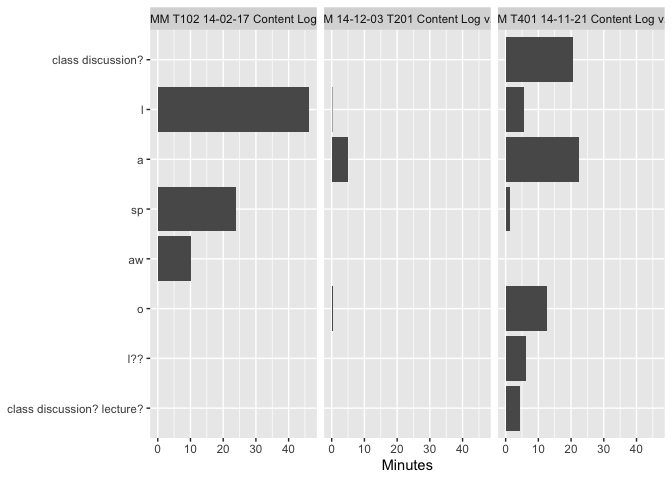
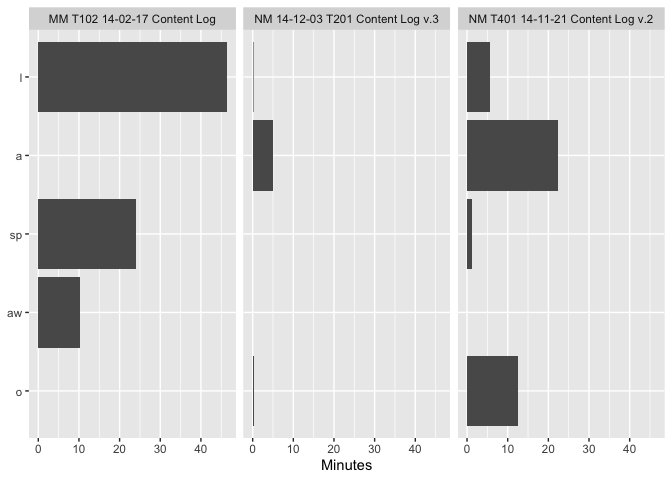
finish cleaning namespace from removing class

diff --git a/README.md b/README.md
@@ -99,6 +99,23 @@ summarize_column(column = "LogClass_AS_ActivityFormat",
 #> 8 l??                                     1  0.0455
 ```
 
+Because `summary_column()` returns a tibble/data.frame, it can be
+computed on:
+
+``` r
+summarize_column(column = "LogClass_AS_ActivityFormat",
+                 directory = "ex-data/datavyu_output_07-06-2020_14-46") %>% 
+  filter(!str_detect(log_class_as_activity_format_code01, "[?]")) # note that names are cleaned upon being processed
+#> # A tibble: 5 x 3
+#>   log_class_as_activity_format_code01     n percent
+#>   <chr>                               <dbl>   <dbl>
+#> 1 l                                       7  0.318 
+#> 2 sp                                      7  0.318 
+#> 3 a                                       2  0.0909
+#> 4 o                                       2  0.0909
+#> 5 aw                                      1  0.0455
+```
+
 We can also explore the frequencies *by file* by changing the `by_file`
 argument to `TRUE`.
 
@@ -151,24 +168,9 @@ summarize_column(column = "LogClass_AS_ActivityFormat",
 #> 8 class discussion? lecture?          00:04:20:950  0.0274
 ```
 
-Note that because the output is a tibble, it can be computed on, e.g.,
-using the `stringr::str_sub()` function to remove codes with question
-marks in them:
-
 ``` r
-summarize_column(column = "LogClass_AS_ActivityFormat",
-                 summary = "duration")
-#> # A tibble: 8 x 3
-#>   log_class_as_activity_format_code01 duration     percent
-#> * <chr>                               <chr>          <dbl>
-#> 1 l                                   00:52:00:316  0.327 
-#> 2 a                                   00:27:16:305  0.172 
-#> 3 sp                                  00:25:18:250  0.159 
-#> 4 class discussion?                   00:20:39:356  0.130 
-#> 5 o                                   00:13:01:093  0.0820
-#> 6 aw                                  00:10:08:256  0.0638
-#> 7 l??                                 00:06:06:588  0.0385
-#> 8 class discussion? lecture?          00:04:20:950  0.0274
+x <- summarize_column(column = "LogClass_AS_ActivityFormat",
+                      summary = "duration")
 ```
 
 Columns can also be summarized by file:
@@ -223,7 +225,7 @@ freq_summary <- filter(freq_summary,
 plot_column_summary(freq_summary)
 ```
 
-<img src="man/figures/README-unnamed-chunk-12-1.png" width="100%" />
+<img src="man/figures/README-unnamed-chunk-13-1.png" width="100%" />
 
 It is also possible to summarize across all of the data, or another
 variable (in-development):
@@ -245,7 +247,7 @@ duration_summary <- summarize_column(column = "LogClass_AS_ActivityFormat",
 plot_column_summary(duration_summary)
 ```
 
-<img src="man/figures/README-unnamed-chunk-14-1.png" width="100%" />
+<img src="man/figures/README-unnamed-chunk-15-1.png" width="100%" />
 
 Like for frequency, these can be ploted by file:
 
@@ -257,7 +259,7 @@ duration_summary_by_file <- summarize_column(column = "LogClass_AS_ActivityForma
 plot_column_summary(duration_summary_by_file)
 ```
 
-<img src="man/figures/README-unnamed-chunk-15-1.png" width="100%" />
+<img src="man/figures/README-unnamed-chunk-16-1.png" width="100%" />
 
 ## Using the pipe operator
 
@@ -270,7 +272,7 @@ summarize_column(column = "LogClass_AS_ActivityFormat",
   plot_column_summary()
 ```
 
-<img src="man/figures/README-unnamed-chunk-16-1.png" width="100%" />
+<img src="man/figures/README-unnamed-chunk-17-1.png" width="100%" />
 
 ## Time series preparation and plot (in-development)
 
@@ -284,8 +286,6 @@ prep_time_series() %>%
   - Plotting code co-occurrences with `plot_cooccurence()`
   - Summarizing an entire file (not just a single column in a file) with
     `summarize_file()`
-  - Implementing generic functions (specifically: `plot()`,
-    `summarize()`, `print()`)
   - Addressing a number of
     [issues](https://github.com/tca2/datavyu/issues), including some
     that relate to the {datavyur} package
